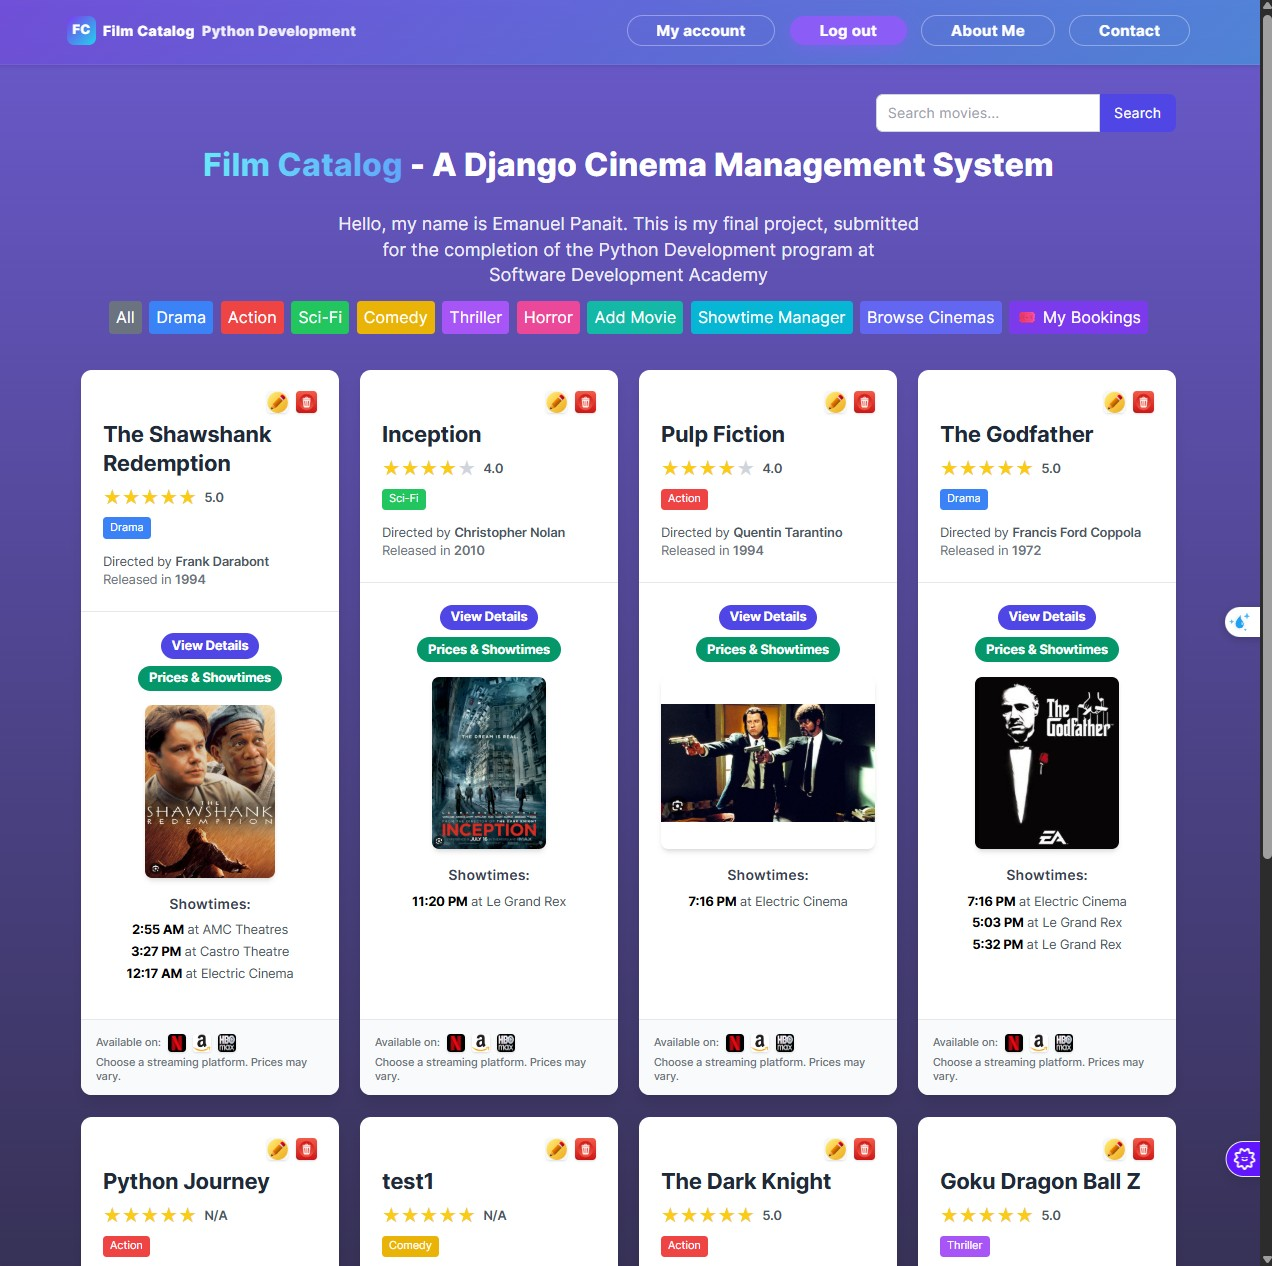
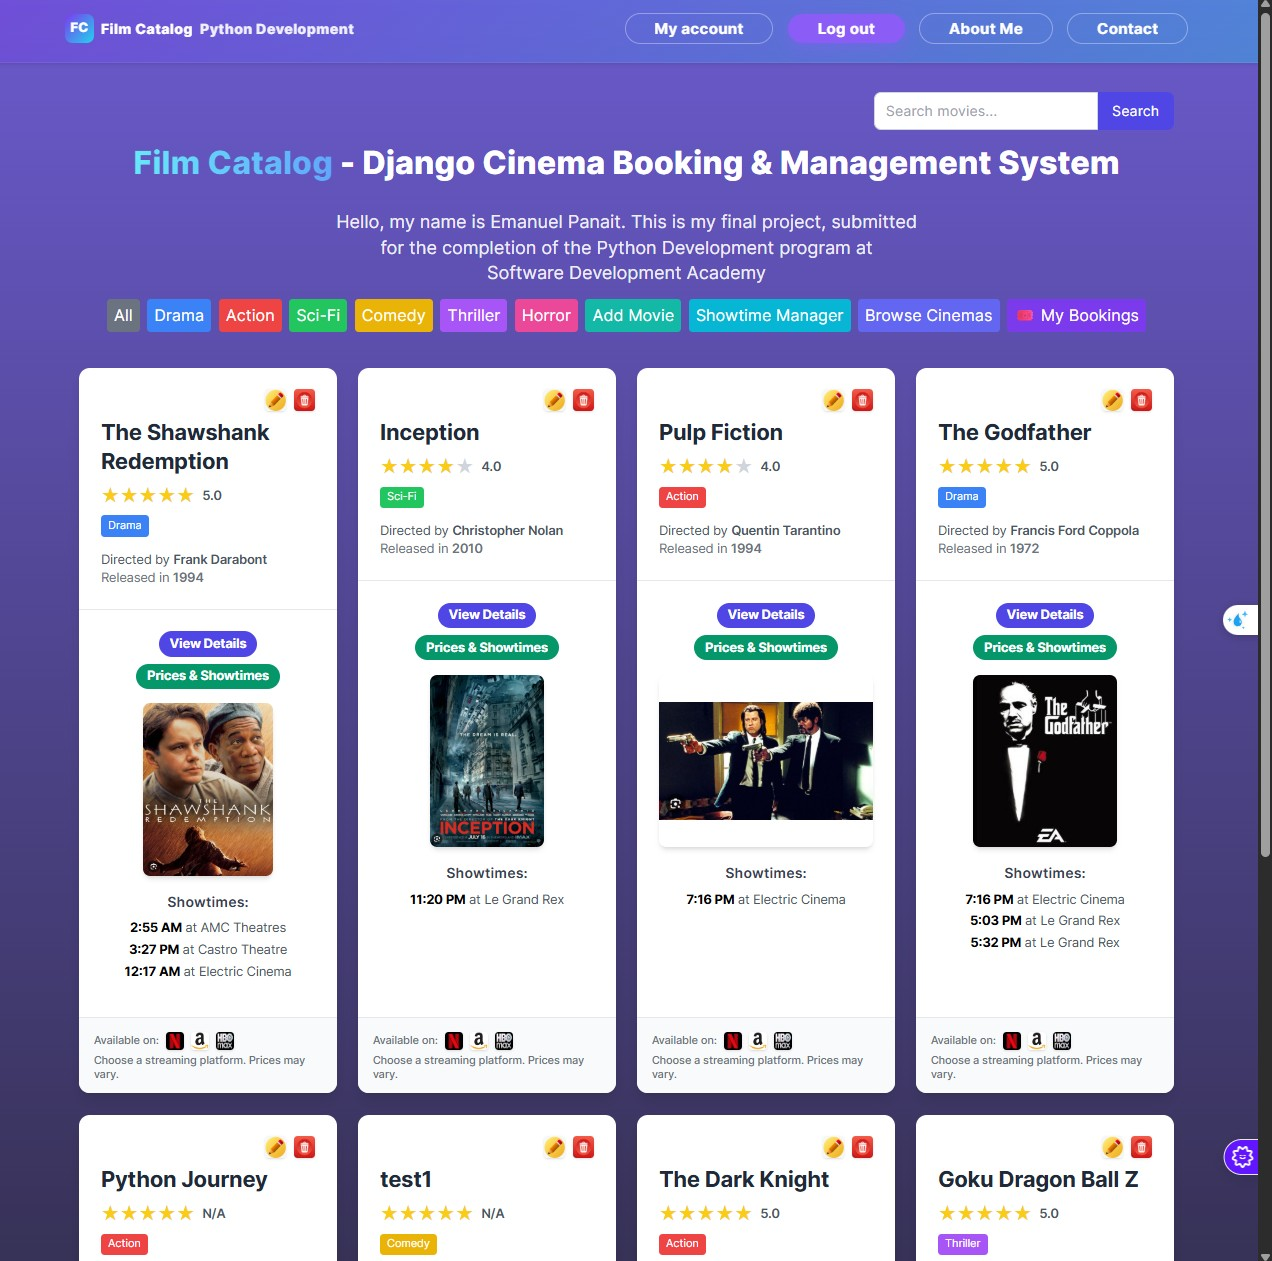
Updated README file

diff --git a/viewer/Templates/movie_list.html b/viewer/Templates/movie_list.html
@@ -13,7 +13,7 @@
     </form>
 
     <h1 class="text-4xl font-extrabold text-white mb-8 text-center">
-        <span class='bg-clip-text bg-gradient-to-r from-cyan-300 to-blue-400 text-transparent'>Film Catalog </span>- A Django Cinema Management System
+        <span class='bg-clip-text bg-gradient-to-r from-cyan-300 to-blue-400 text-transparent'>Film Catalog </span>- Django Cinema Booking & Management System
     </h1>
 
     {% if query %}
